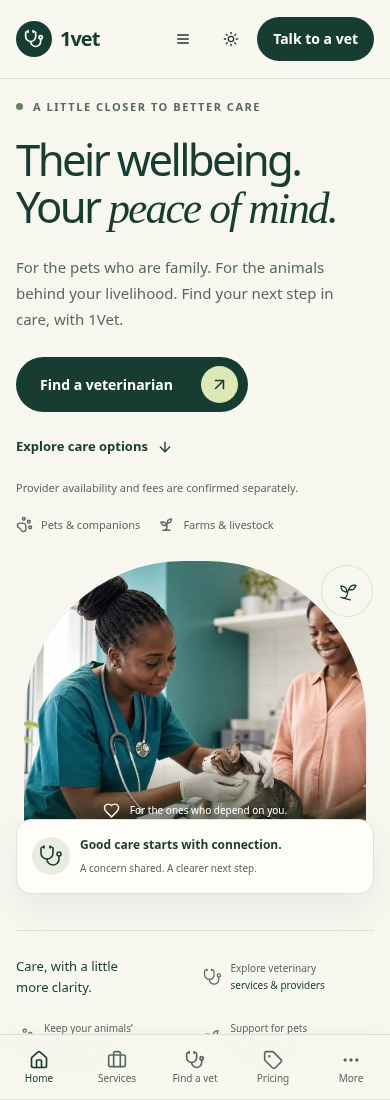
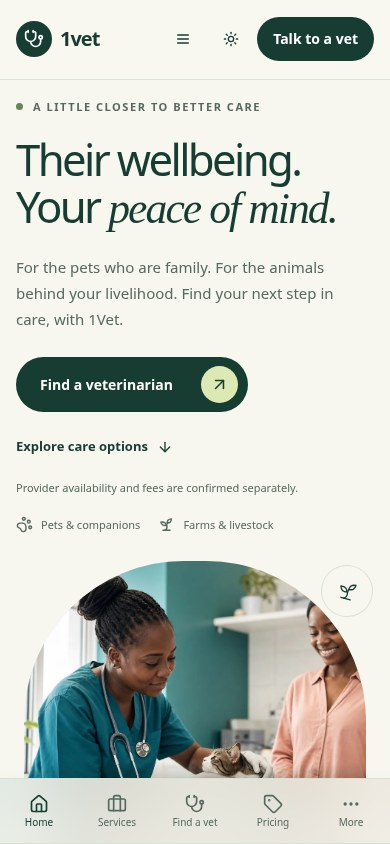
Correct 1Vet mobile mockup proportions

diff --git a/app/globals.css b/app/globals.css
@@ -2587,5 +2587,4 @@ h3 { letter-spacing: -.025em; }
 /* 1Vet: calm sage presentation for the desktop and responsive mobile website. */
 .project-showcase--1vet { --showcase-paper: #e9eee2; --showcase-line: #c4d1bd; --showcase-ink: #244638; }
 .project-showcase--1vet .project-showcase__stage--browser .project-showcase__device { width: min(100%, 520px); }
-.project-showcase--1vet .project-showcase__stage--phone .project-showcase__device { width: 172px; }
 .project-showcase--1vet .project-showcase__copy > p { color: #244638; }

diff --git a/app/data/project-experiences.ts b/app/data/project-experiences.ts
@@ -37,7 +37,7 @@ export const projectExperiences: Record<string, ProductView[]> = {
       engineering: "Responsive mobile web · Touch-friendly navigation",
       src: "/images/projects/1vet/1vet-public-home-mobile.jpg",
       width: 390,
-      height: 1100,
+      height: 844,
       alt: "1Vet mobile website showing care options, a veterinary consultation image and bottom navigation.",
       format: "phone",
       website: "1vet.store",

diff --git a/docs/project-imagery.md b/docs/project-imagery.md
@@ -8,6 +8,8 @@ The selection follows `src/content/projectExperiences.ts` in that repository: th
 
 ## 1Vet live captures
 
-The two JPEGs in `public/images/projects/1vet` were captured directly from https://1vet.store/ on 2026-11-09 using Chromium: desktop at 1440 × 1000 and mobile web at 390 × 1100, device scale 1, JPEG quality 88. Images show the public homepage after its loading state completed; they are not private application dashboards or native app screens. Frames are rendered in CSS, retaining the complete captured image proportions.
+The two JPEGs in `public/images/projects/1vet` were captured directly from https://1vet.store/ on 2026-11-09 using Chromium: desktop at 1440 × 1000 and mobile web at 390 × 844, device scale 1, JPEG quality 88. Images show the public homepage after its loading state completed; they are not private application dashboards or native app screens. Frames are rendered in CSS, retaining the complete captured image proportions.
 
 The cloud policy blocked the public site's external Google Fonts request, payment script and online-vet counter request during capture. The homepage's own layout and photographic assets loaded; screenshots use its fallback fonts. No authentication, payment, or contact actions were performed.
+
+The 1Vet mobile capture uses a standard phone viewport rather than an extended page-height capture, keeping the mockup proportional to the other device showcases.
